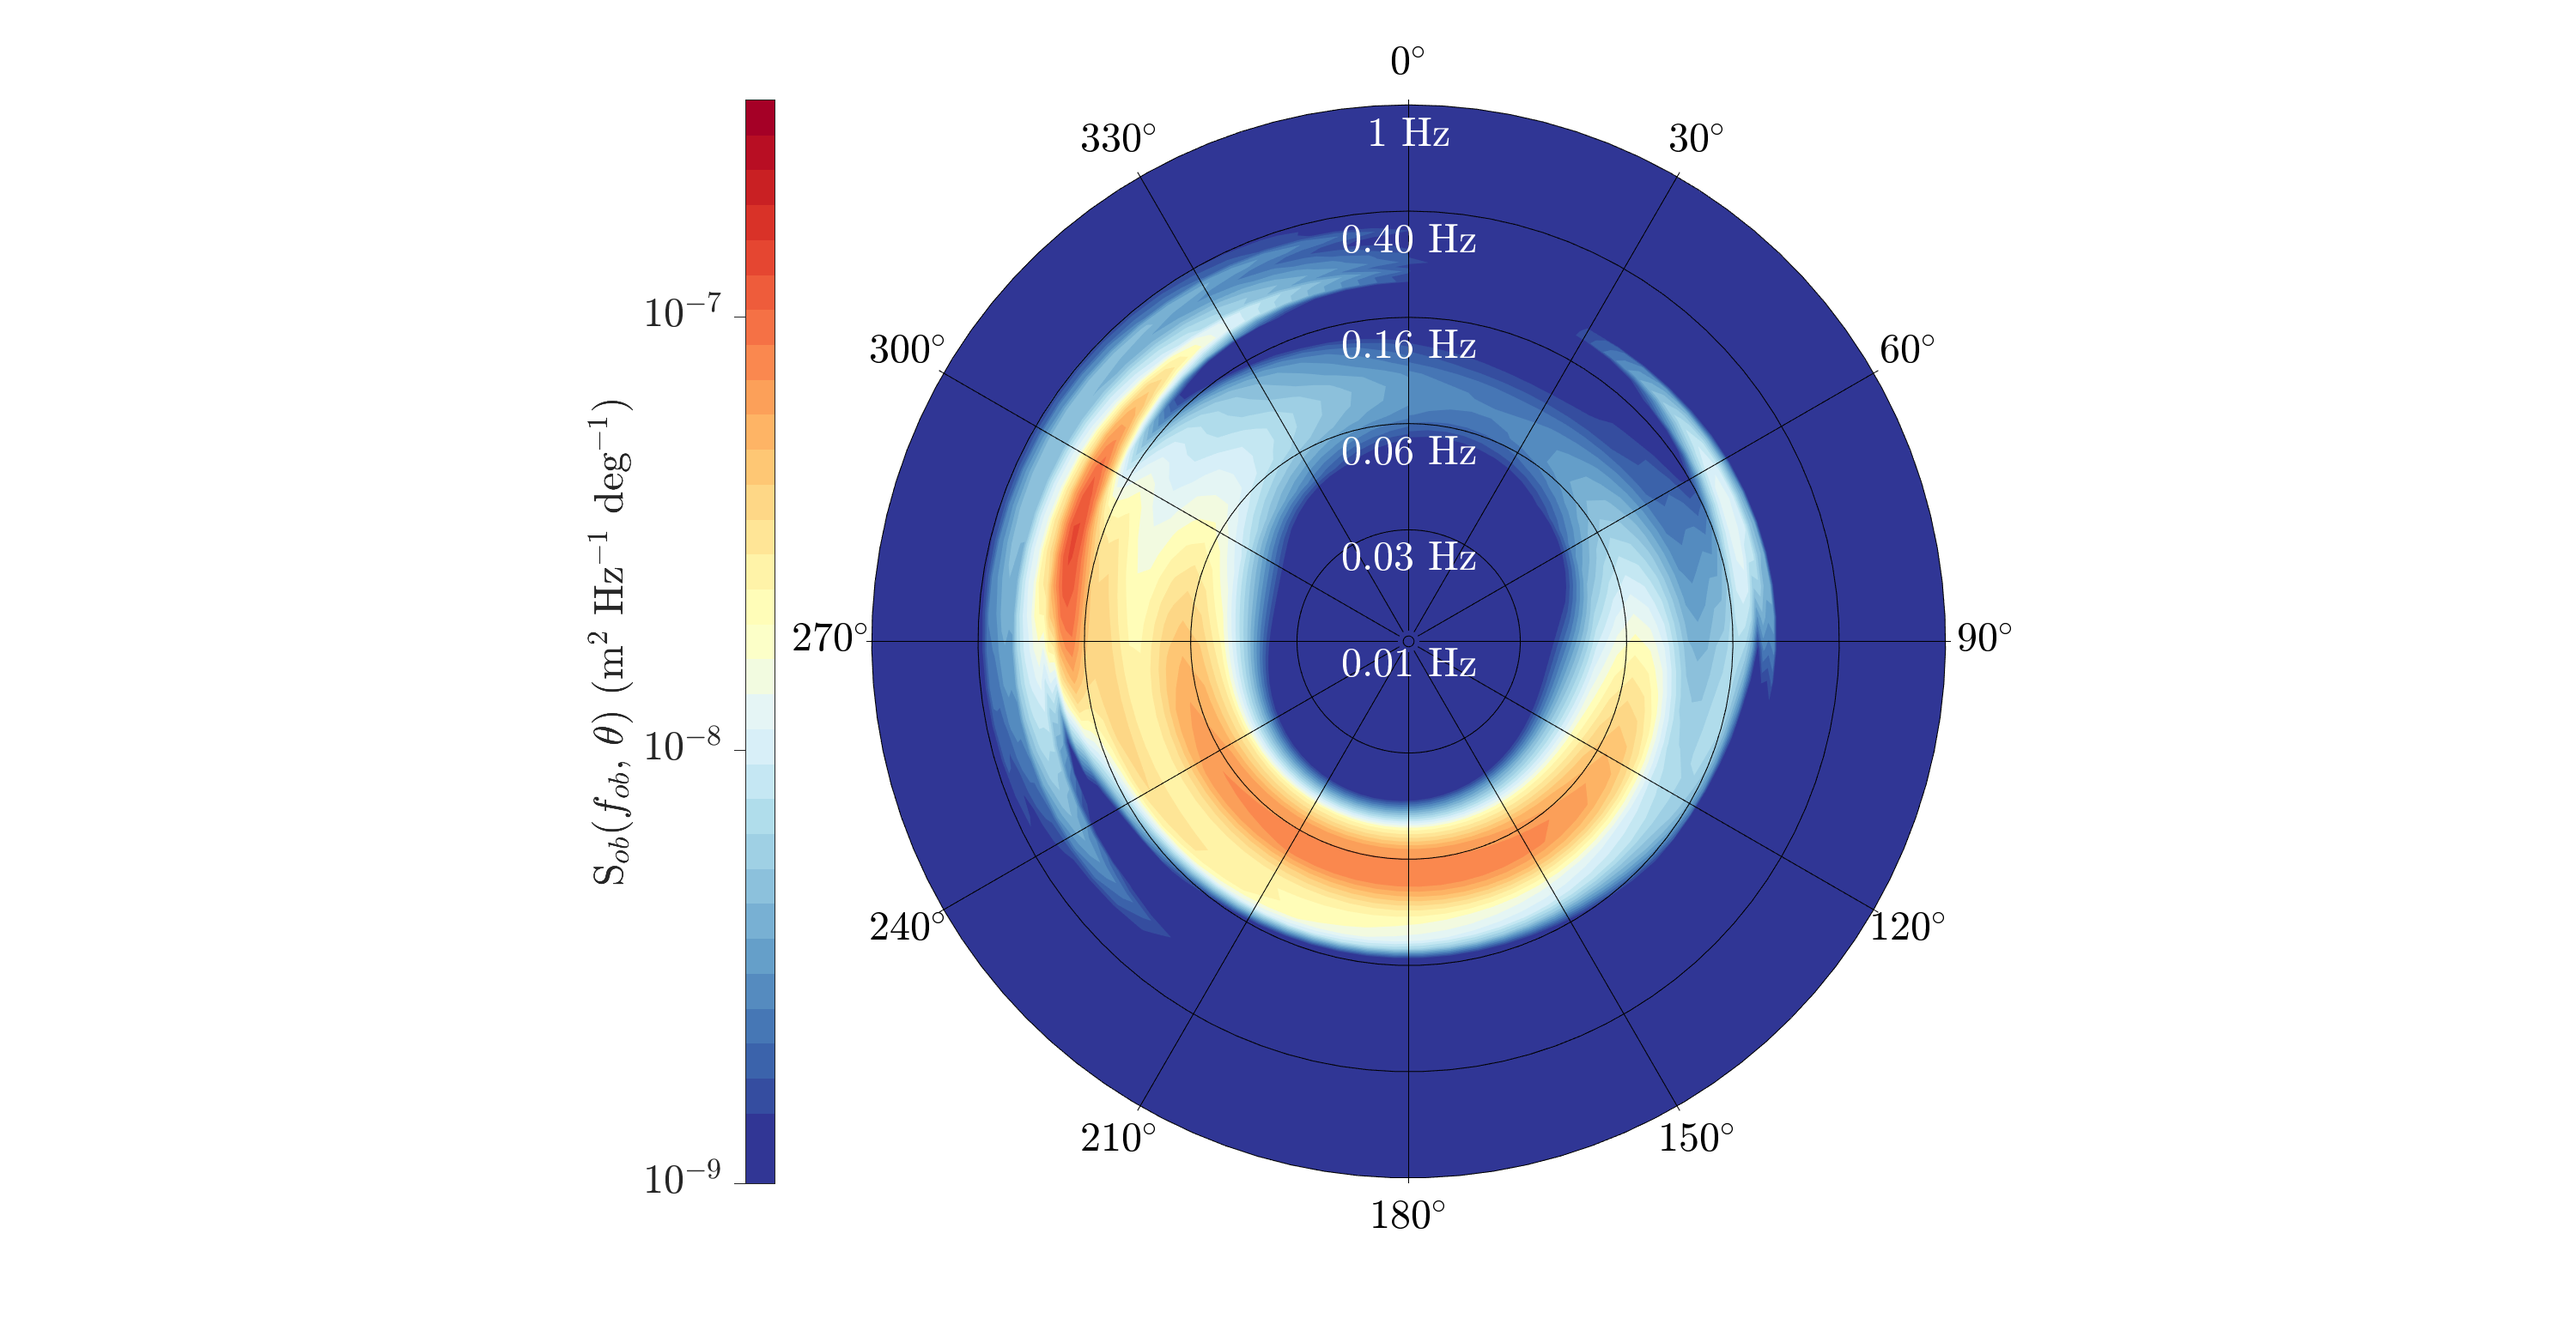
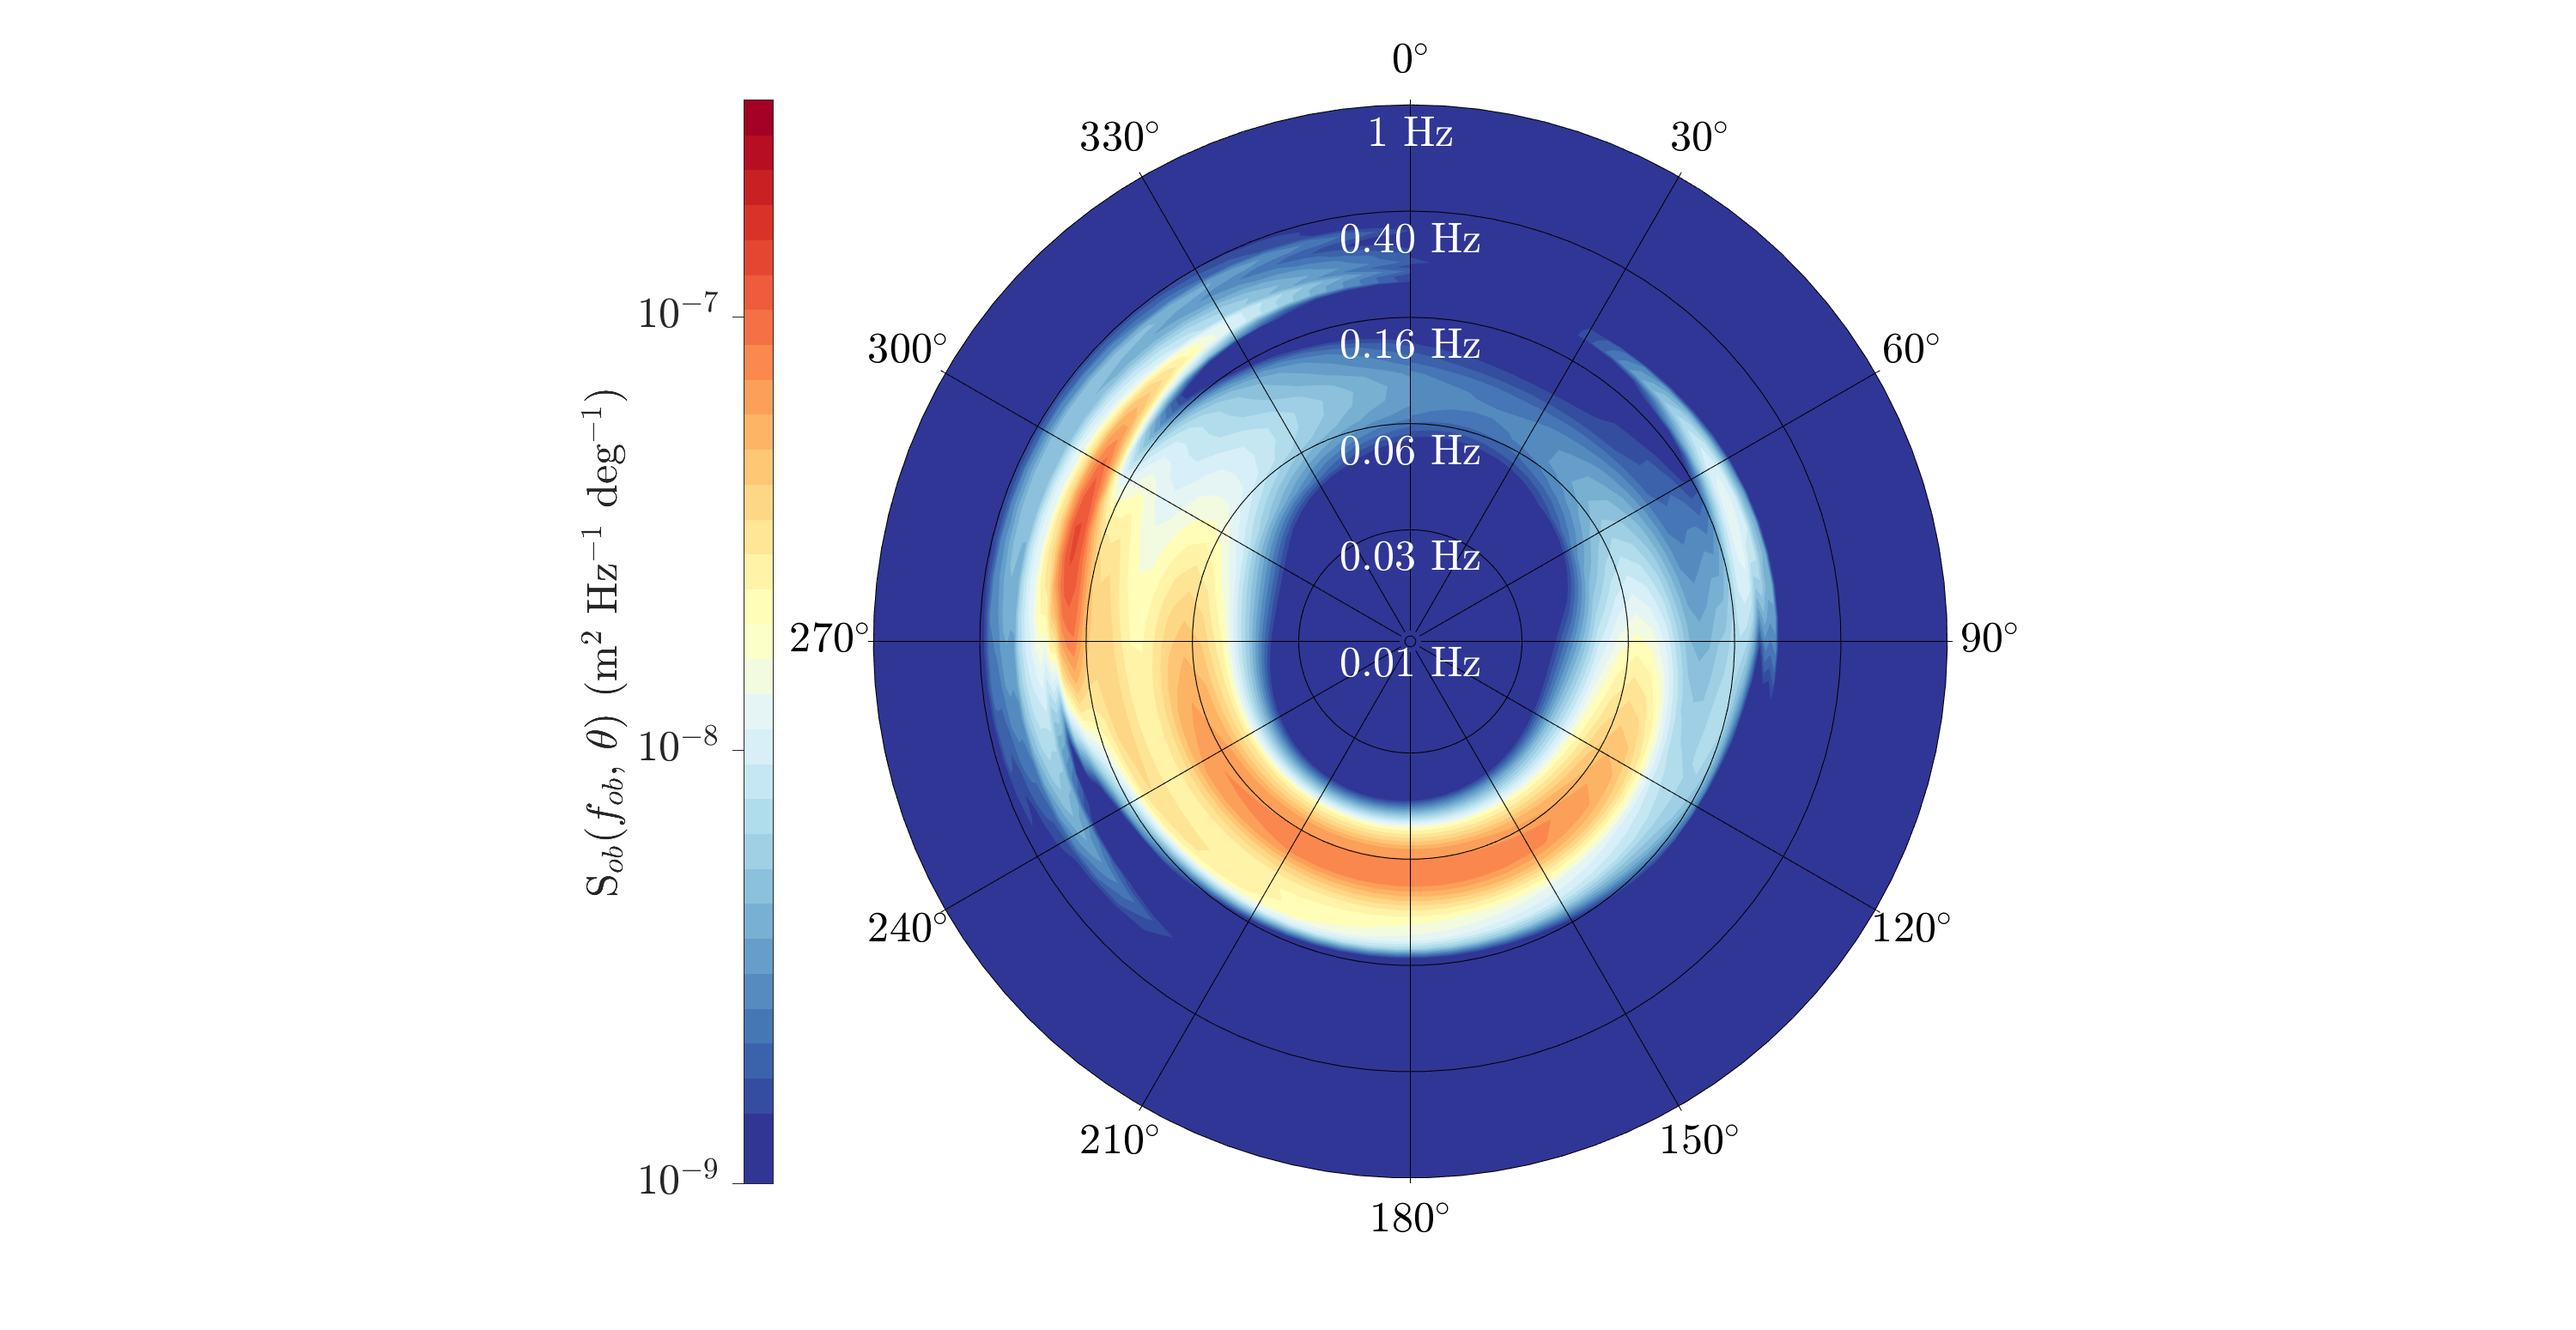
Increase font.

diff --git a/src/fig5.m b/src/fig5.m
@@ -91,7 +91,7 @@ Contours = logspace(-9,-6.5,30);
 cmap = colormap(flipud(cbrewer2('RdYlBu', numel(Contours)))); 
 Contours_n = [10^-16, Contours];
 cmap_n = cat(1,cmap(1,:), cmap);
-fontsize = 23;
+fontsize = 24;
 LineWidth = 0.5;
 LineColor = 'k';
 LineStyle = '-';
